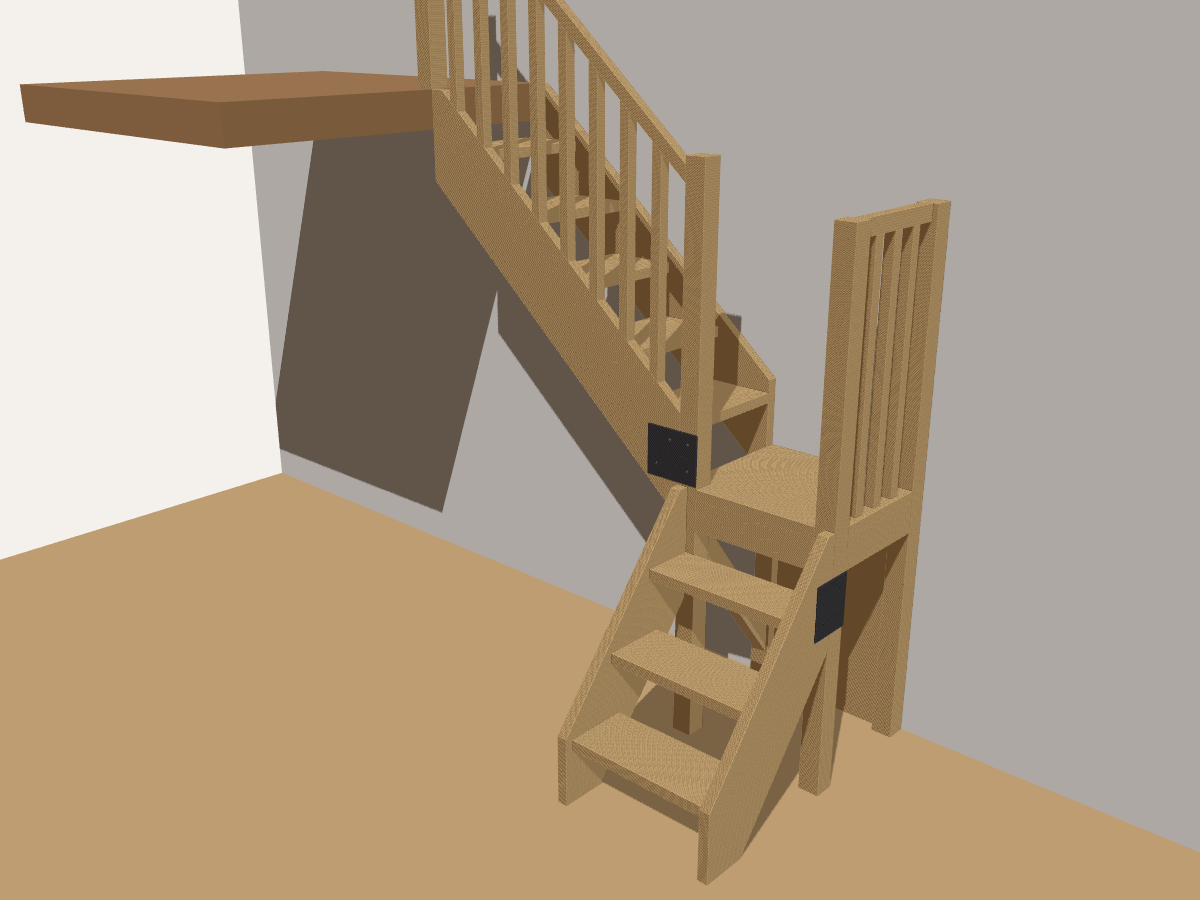
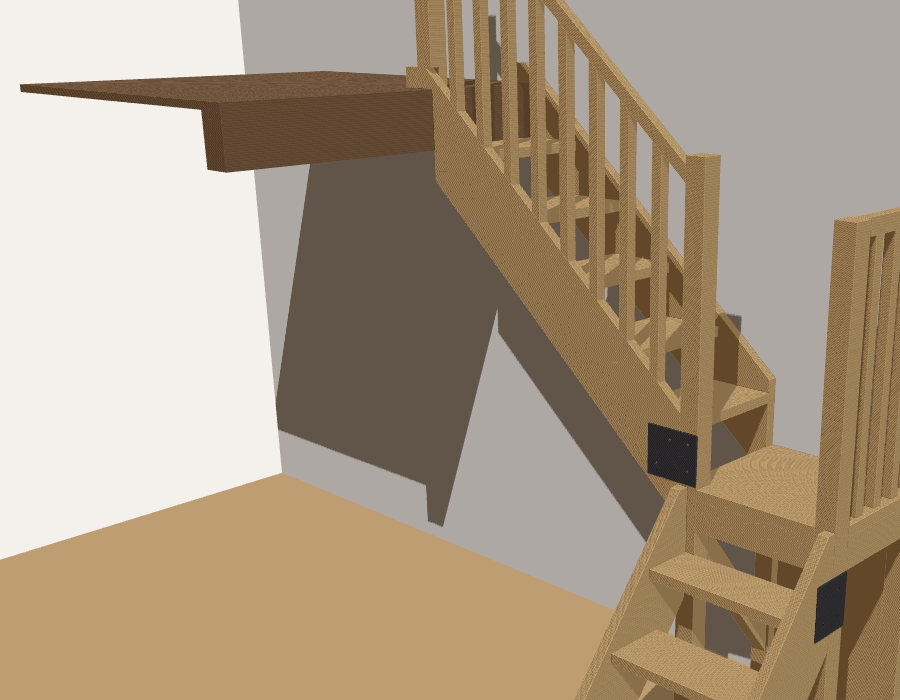
privat-haushalt: Treppe liegt oben auf der Galerie auf, Schnitt Anschluss
Claude-Session: https://claude.ai/code/session_011MSKcWF1eNiWCkVJncpmSo

diff --git a/areas/privat-haushalt/treppe/schnitt_galerie.py b/areas/privat-haushalt/treppe/schnitt_galerie.py
@@ -1,0 +1,46 @@
+import sys; sys.argv=['x']
+exec(open('treppe_cq.py').read().split('# ================= Podest')[0])
+import math
+exec(open('treppe_cq.py').read().split('# ================= Obere Treppe =================')[1].split('treadsU = []')[0].replace('add(','dict(')) if False else None
+LU = lambda x: GAL - (HU / GU) * x
+dU = WB / math.cos(math.atan(HU / GU)); zRo = PH - BEL; RB=60
+x_k = (LU(0) + UEB - GAL - KH) * GU / HU
+prof = [(-HK, GAL), (-HK, GAL + KH), (x_k, GAL + KH), (600, LU(600) + UEB), (600, LU(600) + UEB - dU), (0, LU(0) + UEB - dU), (0, GAL)]
+import matplotlib; matplotlib.use("Agg"); import matplotlib.pyplot as plt
+from matplotlib.patches import Polygon, Rectangle
+fig, ax = plt.subplots(figsize=(11, 8))
+def P(pts, fc, ec="#333", lw=1.4, hatch=None, z=1, ls="-"):
+    ax.add_patch(Polygon(pts, closed=True, fc=fc, ec=ec, lw=lw, hatch=hatch, zorder=z, ls=ls))
+FI = "#e7cfa3"; BE = "#b9a088"
+# Bestand
+P([(-600, GAL-GB), (0, GAL-GB), (0, GAL), (-600, GAL)], BE, hatch="//")
+P([(-RBB, GAL-GB-RBH), (0, GAL-GB-RBH), (0, GAL-GB), (-RBB, GAL-GB)], BE, hatch="xx")
+# Wange (Schnitt durch Raumwange), Tritt 1, Pfosten, Handlauf
+P(prof, FI, lw=2, z=3)
+P([(0, GAL-HU-T), (GU, GAL-HU-T), (GU, GAL-HU), (0, GAL-HU)], "#d8b98a", z=4, ls="--")
+pz1 = 2700
+P([(-POST, GAL+KH), (0, GAL+KH), (0, pz1), (-POST, pz1)], "#f1dfbd", z=2, ls="--")
+# Schrauben
+for xs in (-115, -45):
+    ax.plot([xs, xs], [GAL+KH, GAL-GB-RBH+40], color="#444", lw=2.2, zorder=6)
+    ax.plot([xs-10, xs+10], [GAL+KH, GAL+KH], color="#444", lw=3, zorder=6)
+def dim(x0,y0,x1,y1,t,off=(0,0),ha="center"):
+    ax.annotate("", (x0,y0), (x1,y1), arrowprops=dict(arrowstyle="<->", lw=0.9, color="#1a4f8a"))
+    ax.text((x0+x1)/2+off[0], (y0+y1)/2+off[1], t, color="#1a4f8a", fontsize=9, ha=ha, va="center")
+dim(-HK, GAL+KH+40, 0, GAL+KH+40, f"{HK}", (0,22))
+dim(-HK-40, GAL, -HK-40, GAL+KH, f"{KH}", (-30,0), "right")
+dim(330, GAL, 330, GAL-HU, f"{HU:.0f}", (12,0), "left")
+ax.plot([0, 330], [GAL, GAL], color="#1a4f8a", lw=0.5, ls=":"); ax.plot([GU, 330], [GAL-HU, GAL-HU], color="#1a4f8a", lw=0.5, ls=":")
+def lab(x,y,tx,ty,t):
+    ax.annotate(t, (x,y), (tx,ty), fontsize=9.5, arrowprops=dict(arrowstyle="-", lw=0.7, color="#555"), va="center")
+lab(-75, GAL+40, -560, 2560, "Wangenkopf liegt auf dem Galerieboden,\n2 Tellerkopfschrauben 8 × 300 bis in den Randbalken")
+lab(-2, 2120, -560, 1960, "Stirn der Wange liegt am Randbalken an\n(nimmt den Schub der Treppe auf)")
+lab(-300, GAL-15, -560, 2400, "Galerieboden (Annahme 30 mm)")
+lab(-60, 2170, -560, 2230, "Randbalken (Annahme 120 × 200)")
+lab(-40, 2600, 160, 2650, "Galeriepfosten 80 × 80, über den Wangenkopf\nausgeklinkt, seitlich mit 2 × M10 an die Wange")
+lab(120, GAL-HU-20, 420, 2000, "Tritt 1, 40 mm, in der Wange eingenutet")
+lab(400, LU(400)+UEB-60, 520, 2420, "Wange 40 × 300, Fichte")
+ax.text(-560, 1830, "Schnitt durch die Raumwange, Blick von der Raumseite. Masse in mm. Galerie: Masse angenommen, bitte am Bau messen.", fontsize=9, color="#555")
+ax.set_xlim(-600, 650); ax.set_ylim(1800, 2720); ax.set_aspect("equal"); ax.axis("off")
+ax.set_title("Anschluss oben: Wange liegt auf der Galerie auf", fontsize=13)
+plt.tight_layout(); plt.savefig("schnitt_galerie.png", dpi=110)

diff --git a/areas/privat-haushalt/treppe/treppe_cq.py b/areas/privat-haushalt/treppe/treppe_cq.py
@@ -26,10 +26,14 @@ HLB, HLH = 40, 60     # Handlauf Breite, Hoehe (senkrecht)
 ST = 40               # Gelaenderstab, aus der 40-mm-Platte geschnitten
 GEL = 900             # Handlaufhoehe ueber Trittkante
 GELP = 1000           # Gelaenderhoehe am Podest
+# Wangenkopf oben: liegt auf dem Galerieboden ueber dem Randbalken auf
+HK, KH = 150, 80      # Kopflaenge auf der Galerie, Kopfhoehe ueber Galerieboden
+# Bestand Galerie (ANNAHME, am Bau messen): Boden 30 mm, Randbalken 120 x 200 direkt unter der Kante
+GB, RBB, RBH = 30, 120, 200
 
 asm = cq.Assembly(name="Treppe")
 FI = cq.Color(0.88, 0.74, 0.52)   # alles Fichte
-COL = {"stahl": cq.Color(0.25, 0.25, 0.27), "holz": FI, "tritt": FI, "platte": FI}
+COL = {"bestand": cq.Color(0.55, 0.42, 0.30), "stahl": cq.Color(0.25, 0.25, 0.27), "holz": FI, "tritt": FI, "platte": FI}
 parts = {}
 
 def add(name, solid, c="holz"):
@@ -82,10 +86,10 @@ sh = 80 / math.cos(math.atan((zRu - 150) / (yF0 - yW1)))   # Strebe 60 x 80 (Rah
 add("Strebe_links", prism_yz([(yW1, 150), (yW1, 150 + sh), (yF0, zRu), (yF0, zRu - sh)], XP + 10, XP + 10 + sb))
 
 # ================= Obere Treppe =================
-zcut = GAL                               # oben buendig mit Galerieboden abgeschnitten
-x_top = (LU(0) + UEB - zcut) * GU / HU
-profU = [(0, zcut), (x_top, zcut), (XP, LU(XP) + UEB), (XP, zRo), (XP - RB, zRo),
-         (XP - RB, LU(XP - RB) + UEB - dU), (0, LU(0) + UEB - dU)]   # Klaue auf dem Auflagerriegel
+x_k = (LU(0) + UEB - GAL - KH) * GU / HU   # wo die Wangenoberkante die Kopfhoehe erreicht
+profU = [(-HK, GAL), (-HK, GAL + KH), (x_k, GAL + KH), (XP, LU(XP) + UEB), (XP, zRo), (XP - RB, zRo),
+         (XP - RB, LU(XP - RB) + UEB - dU), (0, LU(0) + UEB - dU), (0, GAL)]
+# oben: Kopf liegt auf dem Galerieboden, Stirn liegt am Randbalken an; unten: Klaue auf dem Auflagerriegel
 treadsU = []
 for k in range(1, NU + 1):
     z = GAL - k * HU
@@ -140,7 +144,7 @@ add("Lasche_oben_Raum", lasche_y(XP - 140, XP + POST, BU, BU + 6, 1010, 1200, hu
 # ================= Gelaender =================
 # Oben: Handlauf ueber der Raumwange, zwischen Galeriepfosten und Podestpfosten vorne links
 gy0, gy1 = BU - HLB, BU
-add("Pfosten_Galerie", box(-POST, 0, BU - POST, BU, GAL, LU(0) + GEL + 30))
+add("Pfosten_Galerie", box(-POST, 0, BU - POST, BU, GAL, LU(0) + GEL + 30).cut(box(-POST, 0, BU - W, BU, GAL, GAL + KH)))  # ueber den Wangenkopf ausgeklinkt
 add("Handlauf_oben", prism_xz([(0, LU(0) + GEL), (XP, LU(XP) + GEL), (XP, LU(XP) + GEL - HLH), (0, LU(0) + GEL - HLH)], gy0, gy1))
 n = 8
 gap = (XP - n * ST) / (n + 1)
@@ -156,6 +160,10 @@ gp = (yF0 - yW1 - m * ST) / (m + 1)
 for i in range(m):
     y0 = yW1 + gp + i * (gp + ST)
     add(f"Stab_Podest_{i+1}", box(xR0 + (POST - ST) / 2, xR0 + (POST + ST) / 2, y0, y0 + ST, PH, PH + GELP - HLH))
+
+# ================= Bestand Galerie (nur zur Orientierung, Masse angenommen) =================
+add("Bestand_Galerieboden", box(-1500, 0, 0, 1500, GAL - GB, GAL), "bestand")
+add("Bestand_Randbalken", box(-RBB, 0, 0, 1500, GAL - GB - RBH, GAL - GB), "bestand")
 
 if __name__ == "__main__":
     import sys
